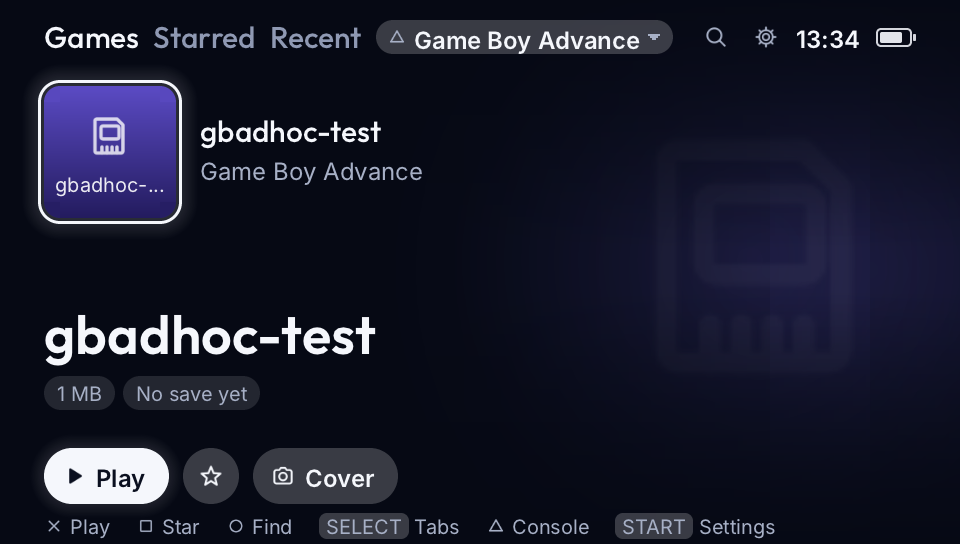
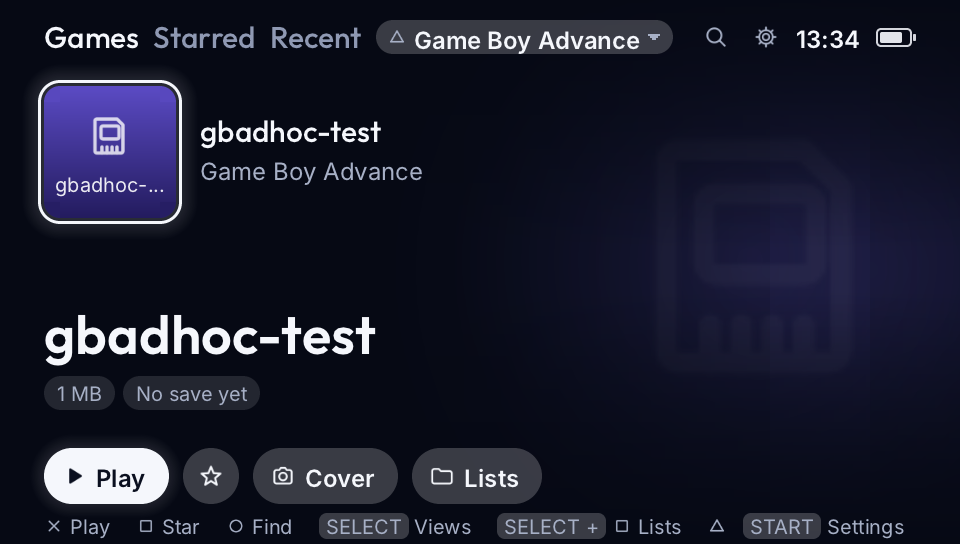
Library review: "All games" goes to all games; the picker's pictures follow the new hint line
- The "All games" button of an empty Starred list (and of a Starred search
  with matches elsewhere) pressed Select, which now steps to the next view
  (Recent, Most played, a collection) instead; it asks for the Games tab.
- The picker scenario's reference pictures are taken again: the Home has
  the Lists button and the hint line reads Views, Select + Square Lists.

Changed region(s): [[0.4062, 0.8125, 0.9375, 1.0]]

diff --git a/gpsp/vita/ui_vita_home.h b/gpsp/vita/ui_vita_home.h
@@ -2270,9 +2270,9 @@ static void home_empty(const char *rom_dir, int n_scan)
          vs_text_c(VS_CAPTION, VS_W * 0.5f, y + 174, msg, HC_TEXT2);
          x = VS_W * 0.5f - (w1 + 14 + w2) * 0.5f;
          x = hm_button(x, y + 216, VS_I_BACK, "Clear", 0, PSP_CTRL_CIRCLE);
+         /* (not SELECT: with more views than two, it is not the way back) */
          hm_button(x, y + 216, VS_I_GRID, "All games", 1,
-                   g_browser_recent || g_view_kind > VK_STAR
-                   ? BROWSER_TAB_BUTTON(0) : PSP_CTRL_SELECT);
+                   BROWSER_TAB_BUTTON(0));
       }
       else
       {
@@ -2325,7 +2325,7 @@ static void home_empty(const char *rom_dir, int n_scan)
       vs_text_c(VS_BODY, VS_W * 0.5f, y + 156,
                 "Press square on a game to star it.", HC_TEXT2);
       hm_button(VS_W * 0.5f - 110, y + 216, VS_I_GRID, "All games", 1,
-                PSP_CTRL_SELECT);
+                BROWSER_TAB_BUTTON(0));
       return;
    }
    {
